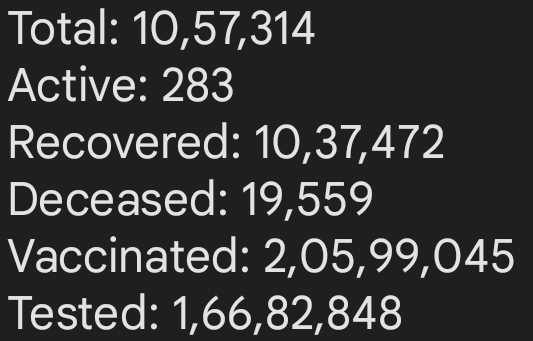
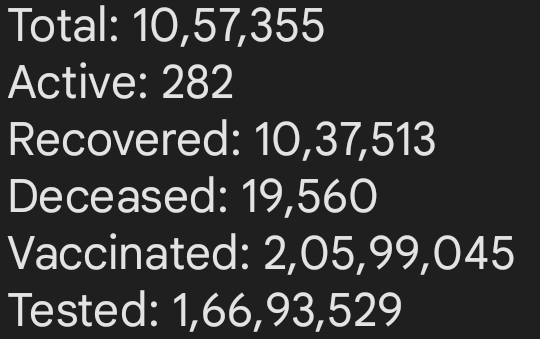
changes 7

diff --git a/index.html b/index.html
@@ -614,44 +614,44 @@
         </div>
         <div class="col s12" id="mah">
           <blockquote style="font-size: x-large; border-left-color: #1e88e5;">
-            <i class="fas fa-virus"></i> Covid 19 (April 6)</blockquote>
+            <i class="fas fa-virus"></i> Covid 19 (April 7)</blockquote>
           <h6>Source: Twitter - PIB Maharashtra</h6>
           <div class="row">
             <div class="col s12 m12 l6">
-              <img src="https://pbs.twimg.com/media/FPq-t4gaUAA3Mn7?format=png&name=small" alt="MH1" width="100%"
+              <img src="https://pbs.twimg.com/media/FPvt21pakAUhy8f?format=png&name=900x900" alt="MH1" width="100%"
                 class="responsive-img materialboxed">
             </div>
             <div class="col s12 m12 l6">
-              <img src="https://pbs.twimg.com/media/FPq-0T_acAMCia5?format=png&name=small" alt="MH2" width="100%"
+              <img src="https://pbs.twimg.com/media/FPvt7XDaUAEMpL_?format=png&name=900x900" alt="MH2" width="100%"
                 class="responsive-img materialboxed">
             </div>
           </div>
           <div class="row">
             <div class="col s12 m12 l6">
-              <img src="https://pbs.twimg.com/media/FPq_ScraAAcKKS-?format=png&name=small" alt="MH3" width="100%"
+              <img src="https://pbs.twimg.com/media/FPvt-_taAAEiDMy?format=png&name=small" alt="MH3" width="100%"
                 class="responsive-img materialboxed">
             </div>
             <div class="col s12 m12 l6">
-              <img src="https://pbs.twimg.com/media/FPq_U9YakAUcJ_l?format=png&name=900x900" alt="MH4" width="100%"
+              <img src="https://pbs.twimg.com/media/FPvukEqacAITnAM?format=png&name=small" alt="MH4" width="100%"
                 class="responsive-img materialboxed">
             </div>
           </div>
           <div class="row">
             <div class="col s12 m12 l6">
-              <img src="https://pbs.twimg.com/media/FPq_YHZaQAIOvFe?format=png&name=900x900" alt="MH5" width="100%"
+              <img src="https://pbs.twimg.com/media/FPvumn-aIAMKEHK?format=png&name=900x900" alt="MH5" width="100%"
                 class="responsive-img materialboxed">
             </div>
             <div class="col s12 m12 l6">
-              <img src="https://pbs.twimg.com/media/FPq_esbagAA6UMy?format=png&name=small" alt="MH6" width="100%"
+              <img src="https://pbs.twimg.com/media/FPvupAFacAAMcaM?format=png&name=900x900" alt="MH6" width="100%"
                 class="responsive-img materialboxed">
             </div>
           </div>
-          <!-- <div class="row">
+          <div class="row">
             <div class="col s12 m12 l6">
-              <img src="https://pbs.twimg.com/media/FPmMLkpVcAE5qdb?format=png&name=small" alt="MH7" width="100%"
+              <img src="https://pbs.twimg.com/media/FPvurOUaQAQYBpL?format=png&name=small" alt="MH7" width="100%"
                 class="responsive-img materialboxed">
             </div>
-          </div> -->
+          </div>
           <!-- <blockquote style="font-size: x-large; border-left-color: #1e88e5;">
             <i class="fas fa-viruses"></i> Omicron - Total: 5726, Recovered: 4733</blockquote> -->
           <!-- <h6 class="white-text">Source: State Official Health (Aarogya) Website (As on March 23)</h6> -->
@@ -662,42 +662,42 @@
           <div class="oui-button blue darken-1"><a href="thavac.html" target="_blank" class="white-text">VACCINE SLOT
               TRACKERS</a>
           </div>
-          <h6 class="white-text">As on April 6 (April 5, 4) (&#8593; - new cases)</h6>
+          <h6 class="white-text">As on April 7 (April 6, 5, 4) (&#8593; - new cases)</h6>
           <!-- <h6 class="white-text">As on March 3* (&#8593; - new cases)</h6> -->
           <div class="row">
             <div class="col s12 m6 l3">
               <div class="card-panel grey darken-4 white-text">
-                <h5><b>MUMBAI</b> <i class="fas fa-arrow-circle-up"></i> 51 (56, 18) </h5>
+                <h5><b>MUMBAI</b> <i class="fas fa-arrow-circle-up"></i> 41 (51, 56, 18) </h5>
                 <img src="images/D1.png" alt="MD" width="100%" class="responsive-img" id="dis">
               </div>
             </div>
             <div class="col s12 m6 l3">
               <div class="card-panel grey darken-4 white-text">
-                <h5><b>THANE</b> <i class="fas fa-arrow-circle-up"></i> 7 (8, 6) </h5>
+                <h5><b>THANE</b> <i class="fas fa-arrow-circle-up"></i> 4 (7, 8, 6) </h5>
                 <img src="images/D2.png" alt="TD" width="100%" class="responsive-img" id="dis">
               </div>
             </div>
             <div class="col s12 m6 l3">
               <div class="card-panel grey darken-4 white-text">
-                <h5><b>PALGHAR</b> <i class="fas fa-arrow-circle-up"></i> 0 (2, 1) </h5>
+                <h5><b>PALGHAR</b> <i class="fas fa-arrow-circle-up"></i> 0 (0, 2, 1) </h5>
                 <img src="images/D3.png" alt="PD" width="100%" class="responsive-img" id="dis">
               </div>
             </div>
             <div class="col s12 m6 l3">
               <div class="card-panel grey darken-4 white-text">
-                <h5><b>RAIGAD</b> <i class="fas fa-arrow-circle-up"></i> 1 (0, 1) </h5>
+                <h5><b>RAIGAD</b> <i class="fas fa-arrow-circle-up"></i> 4 (1, 0, 1) </h5>
                 <img src="images/D4.png" alt="RD" width="100%" class="responsive-img" id="dis">
               </div>
             </div>
           </div>
           <blockquote style="font-size: x-large; border-left-color: #1e88e5;">Mumbai Dashboard</blockquote>
-          <h6>Source: Official MCGM Website<br>As on April 5 (April 4)</h6>
+          <h6>Source: Official MCGM Website<br>As on April 6 (April 5)</h6>
           <div class="row">
             <div class="col s12 m12 l6">
-              <img src="images/M5.png" alt="Mum" width="100%" class="responsive-img materialboxed">
+              <img src="images/M6.png" alt="Mum" width="100%" class="responsive-img materialboxed">
             </div>
             <div class="col s12 m12 l6">
-              <img src="images/M4.png" alt="Mum" width="100%" class="responsive-img materialboxed">
+              <img src="images/M5.png" alt="Mum" width="100%" class="responsive-img materialboxed">
             </div>
           </div>
           <blockquote style="font-size: x-large; border-left-color: #1e88e5;">Palghar Dashboard</blockquote>
@@ -729,33 +729,33 @@
           <div class="row">
             <div class="col s12 m6 l4">
               <div class="card-panel grey darken-4 white-text">
-                <h5><b>THANE</b> <i class="fas fa-arrow-circle-up"></i> 2 <br>(2) </h5>
-                <p><b>As on </b>Apr 6 (Apr 5)</p>
-                <p><b>Total:</b> 183680 </p>
-                <p><b>Active:</b> 15 </p>
-                <p><b>Recovered:</b> 181538 </p>
+                <h5><b>THANE</b> <i class="fas fa-arrow-circle-up"></i> 1 <br>(2) </h5>
+                <p><b>As on </b>Apr 7 (Apr 6)</p>
+                <p><b>Total:</b> 183681 </p>
+                <p><b>Active:</b> 12 </p>
+                <p><b>Recovered:</b> 181542 </p>
                 <p><b>Deceased:</b> 2127 </p>
                 <hr>
                 <p class="grey-text text-lighten-1">
                   Majiwada Manpada: 0<br>
-                  Vartaknagar: 0<br>
+                  Vartaknagar: 1<br>
                   Lokmanyanagar Savarkarnagar: 0<br>
                   Naupada-Kopari: 0<br>
-                  Uthalsar: 1<br>
+                  Uthalsar: 0<br>
                   Wagale: 0<br>
-                  Kalwa: 1<br>
+                  Kalwa: 0<br>
                   Mumbra: 0<br>
                   Diva: 0<br>
-                  Others: 0 [Apr 6]</p>
+                  Others: 0 [Apr 7]</p>
               </div>
             </div>
             <div class="col s12 m6 l4">
               <div class="card-panel grey darken-4 white-text">
-                <h5><b>KALYAN KDMC</b> <i class="fas fa-arrow-circle-up"></i> 0 <br>(2) </h5>
-                <p><b>As on </b>Apr 6 (Apr 5)</p>
+                <h5><b>KALYAN KDMC</b> <i class="fas fa-arrow-circle-up"></i> 0 <br>(0) </h5>
+                <p><b>As on </b>Apr 7 (Apr 6)</p>
                 <p><b>Total:</b> 166506 </p>
-                <p><b>Active:</b> 3 </p>
-                <p><b>Recovered:</b> 163545 </p>
+                <p><b>Active:</b> 5 </p>
+                <p><b>Recovered:</b> 163546 </p>
                 <p><b>Deceased:</b> 2955 </p>
                 <hr>
                 <p class="grey-text text-lighten-1">
@@ -765,16 +765,16 @@
                   Dombivli West: 0<br>
                   Manda-Titwala: 0<br>
                   Mohana: 0<br>
-                  Pisavli: 0 [Apr 6]<br><br><br><br></p>
+                  Pisavli: 0 [Apr 7]<br><br><br><br></p>
               </div>
             </div>
             <div class="col s12 m6 l4">
               <div class="card-panel grey darken-4 white-text">
-                <h5><b>NAVI MUMBAI</b> <i class="fas fa-arrow-circle-up"></i> 4 <br>(1) </h5>
-                <p><b>As on </b>Apr 6 (Apr 5)</p>
-                <p><b>Total:</b> 151239 </p>
-                <p><b>Active:</b> 78 </p>
-                <p><b>Recovered:</b> 149112 </p>
+                <h5><b>NAVI MUMBAI</b> <i class="fas fa-arrow-circle-up"></i> 2 <br>(4) </h5>
+                <p><b>As on </b>Apr 7 (Apr 6)</p>
+                <p><b>Total:</b> 151241 </p>
+                <p><b>Active:</b> 65 </p>
+                <p><b>Recovered:</b> 149127 </p>
                 <p><b>Deceased:</b> 2049 </p>
                 <hr>
                 <p class="grey-text text-lighten-1">
@@ -791,11 +791,11 @@
             </div>
             <div class="col s12 m6 l4">
               <div class="card-panel grey darken-4 white-text">
-                <h5><b>MIRA BHAYANDER</b> <i class="fas fa-arrow-circle-up"></i> 0 <br>(0) </h5>
-                <p><b>As on </b>Apr 6 (Apr 5)</p>
+                <h5><b>MIRA BHAYANDER</b> <i class="fas fa-arrow-circle-up"></i> _ <br>(0) </h5>
+                <p><b>As on </b>Apr 7 (Apr 6)</p>
                 <p><b>Total:</b> 69108 </p>
-                <p><b>Active:</b> 4 </p>
-                <p><b>Recovered:</b> 67707 </p>
+                <p><b>Active:</b> 3 </p>
+                <p><b>Recovered:</b> 67708 </p>
                 <p><b>Deceased:</b> 1397 </p>
                 <hr>
                 <p class="grey-text text-lighten-1">Bhayander East: 0<br>Bhayander West: 0<br>Mira Road: 0 [Apr 6]
@@ -805,8 +805,8 @@
             </div>
             <div class="col s12 m6 l4">
               <div class="card-panel grey darken-4 white-text">
-                <h5><b>THANE RURAL</b> <i class="fas fa-arrow-circle-up"></i> 0 <br>(0) </h5>
-                <p><b>As on </b>Apr 6 (Apr 5)</p>
+                <h5><b>THANE RURAL</b> <i class="fas fa-arrow-circle-up"></i> _ <br>(0) </h5>
+                <p><b>As on </b>Apr 7 (Apr 6)</p>
                 <p><b>Total:</b> 49208 </p>
                 <p><b>Active:</b> 1 </p>
                 <p><b>Recovered:</b> 47953 </p>
@@ -816,8 +816,8 @@
             </div>
             <div class="col s12 m6 l4">
               <div class="card-panel grey darken-4 white-text">
-                <h5><b>ULHASNAGAR</b> <i class="fas fa-arrow-circle-up"></i> 0 <br>(0) </h5>
-                <p><b>As on </b>Apr 6 (Apr 5)</p>
+                <h5><b>ULHASNAGAR</b> <i class="fas fa-arrow-circle-up"></i> _ <br>(0) </h5>
+                <p><b>As on </b>Apr 7 (Apr 6)</p>
                 <p><b>Total:</b> 26414 </p>
                 <p><b>Active:</b> 1 </p>
                 <p><b>Recovered:</b> 25758 </p>
@@ -829,8 +829,8 @@
             </div>
             <div class="col s12 m6 l4">
               <div class="card-panel grey darken-4 white-text">
-                <h5><b>BADLAPUR</b> <i class="fas fa-arrow-circle-up"></i> 0 <br>(0) </h5>
-                <p><b>As on </b>Apr 6 (Apr 5)</p>
+                <h5><b>BADLAPUR</b> <i class="fas fa-arrow-circle-up"></i> _ <br>(0) </h5>
+                <p><b>As on </b>Apr 7 (Apr 6)</p>
                 <p><b>Total:</b> 25592 </p>
                 <p><b>Active:</b> 0 </p>
                 <p><b>Recovered:</b> 25204 </p>
@@ -841,8 +841,8 @@
             </div>
             <div class="col s12 m6 l4">
               <div class="card-panel grey darken-4 white-text">
-                <h5><b>AMBERNATH</b> <i class="fas fa-arrow-circle-up"></i> 0 <br>(0) </h5>
-                <p><b>As on </b>Apr 6 (Apr 5)</p>
+                <h5><b>AMBERNATH</b> <i class="fas fa-arrow-circle-up"></i> _ <br>(0) </h5>
+                <p><b>As on </b>Apr 7 (Apr 6)</p>
                 <p><b>Total:</b> 24438 </p>
                 <p><b>Active:</b> 1 </p>
                 <p><b>Recovered:</b> 23857 </p>
@@ -853,8 +853,8 @@
             </div>
             <div class="col s12 m6 l4">
               <div class="card-panel grey darken-4 white-text">
-                <h5><b>BHIWANDI City</b> <i class="fas fa-arrow-circle-up"></i> 0 <br>(0) </h5>
-                <p><b>As on </b>Apr 6 (Apr 5)</p>
+                <h5><b>BHIWANDI City</b> <i class="fas fa-arrow-circle-up"></i> _ <br>(0) </h5>
+                <p><b>As on </b>Apr 7 (Apr 6)</p>
                 <p><b>Total:</b> 12634 </p>
                 <p><b>Active:</b> 12 </p>
                 <p><b>Recovered:</b> 12143 </p>
